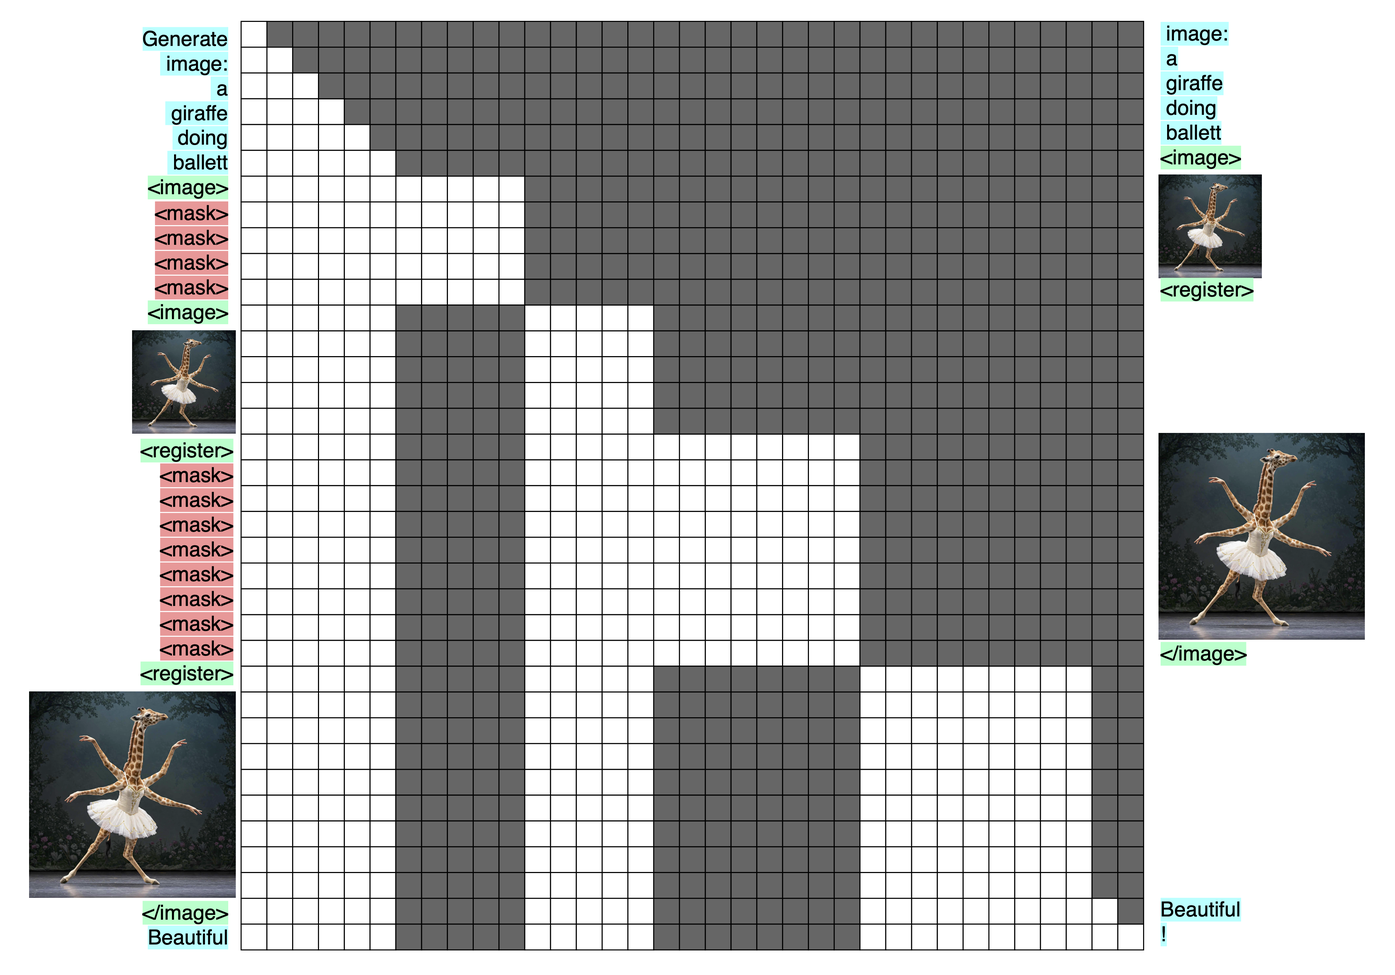
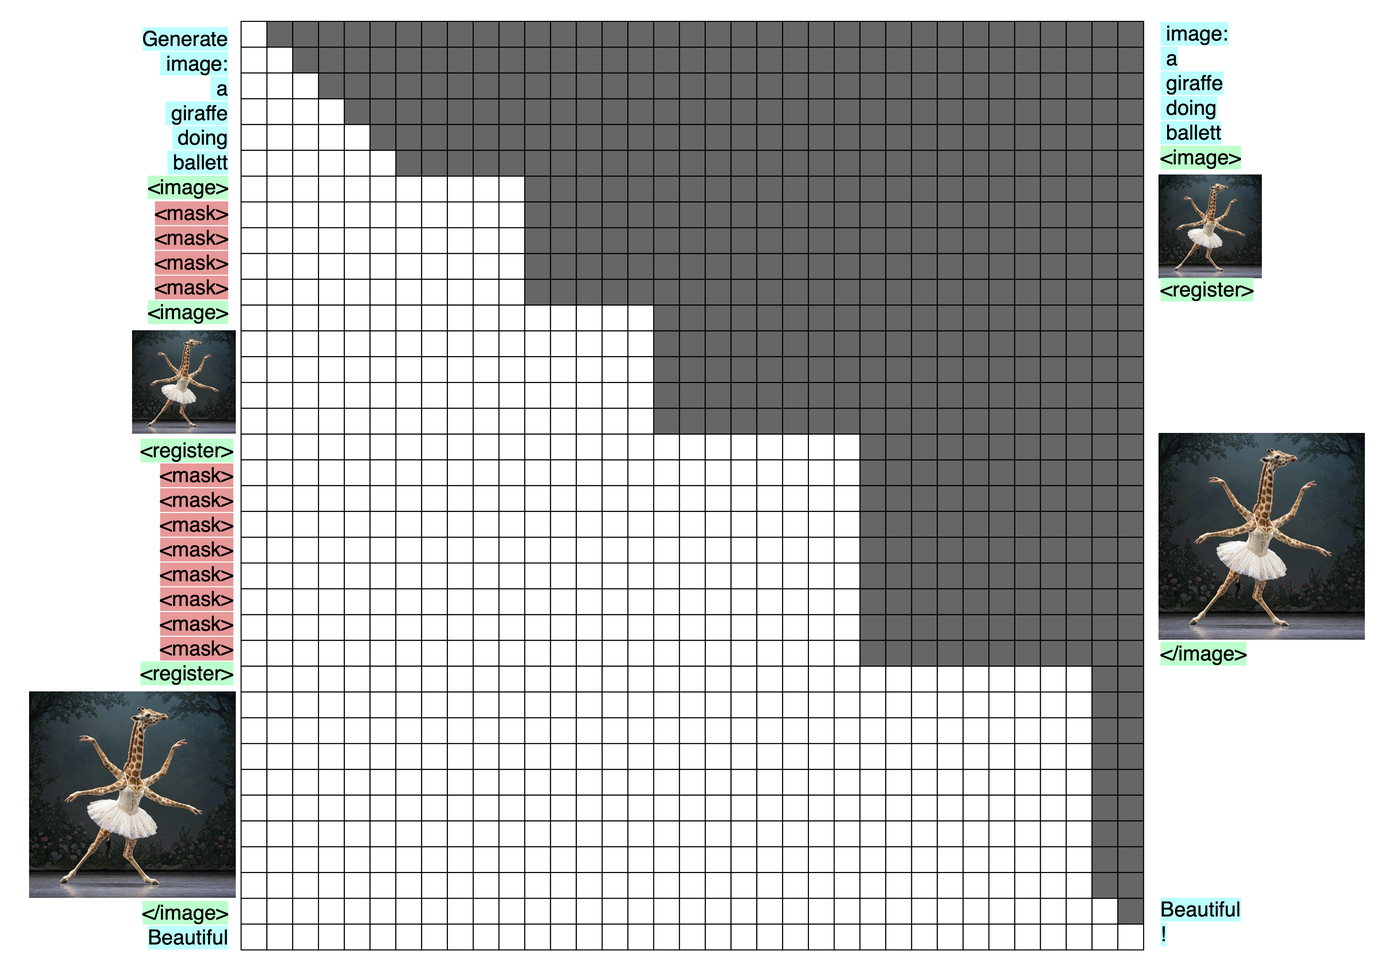
my-dream-vlm: new ideas and updates

Changed region(s): [[0.2802, 0.3093, 0.3736, 0.9897], [0.4669, 0.6804, 0.6226, 0.9897]]

diff --git a/_posts/2025-04-07-my-dream-vlm.md b/_posts/2025-04-07-my-dream-vlm.md
@@ -36,6 +36,8 @@ To summarize [my previous article](https://snimu.github.io/2025/03/30/multi-laye
 
 The obvious consequence of this is that modalities, which look very different when instantiated into text/images/..., will try to push the model towards producing a representation most fit for producing exactly that modality, as opposed to others. This leads to competition for resources inside the model. Putting a transformer block per modality between the model core and the decoders at the output will reduce that competition, and projecting into an abstract space at the input should have a similar effect.
 
+Since the article mentioned above, more evidence for my belief that modalities should be merged later and split earlier has emerged in the form of [Scaling Laws for Native Multimodal Models](http://arxiv.org/abs/2504.07951). The authors show that early fusion models work better than later fusion models, especially when using a Mixture of Experts (MoE) model. Importantly, they also show that the MoE model develops modality-specific experts, and does so *especially in the early and later layers*, not so much the middle layers, which I see as strong evidence for my claims. And while I'd of course also use a MoE model, I belief that merging late and splitting early gives even more separation, because the models each have their own Attention layer instead of just their own experts in the MLP.
+
 So the first modification that I would do to Janus is to merge inputs from different modalities later, and split their outputs earlier, like this:
 
 ![Janus Architecture with split and merge](/assets/images/2025-04-07-my-dream-vlm/abstract-space.png)
@@ -97,13 +99,13 @@ I see no reason not to actively train image-understanding by replacing some of t
 
 > Training bidirectional, masked image-understanding. On the left are the inputs, on the right the targets, and in the middle the transformer, represented by its attention mask. I show the images themselves being masked and produced at the output, but for image-understanding, what would be masked and produced would be adapted image tokens. After all, this is about image-*understanding*.
 
-I would train a small percentage of the samples without masking, so that the model gets used to seeing the full image and using it for downstream tasks, and train the rest with between 0% and 100% of masked patches. It will become clear why I want to use up to 100% of the image-tokens when I get to image-generation.
+I would train a small percentage of the samples without masking, so that the model gets used to seeing the full image and using it for downstream tasks, and train the rest with, for example, between 25% and 75% of masked patches.
 
-### Should we even use SigLIP for this?
+## Go early fusion
 
-This is a question that I'm uncertain about. The idea behind it is: if we already actively train image understanding, do we not limit ourselves by using a frozen encoder that was trained by projecting into text-space, instead of training end-to-end?
+Throw away the SigLIP encoder.
 
-Imagine the following architecture:
+Instead, use the following architecture:
 
 1. Image is split into patches
 2. Patches are flattened
@@ -114,12 +116,10 @@ If this is trained end-to-end, with text and other images in context, then:
 
 - There will inherently be a CLIP/SigLIP-like effect, because as long as the text is useful for predicting image-patches and images are useful for predicting text, their embeddings will be aligned automatically to be maximally useful to each other
 - In [Scaling Language-Free Visual Representation Learning](http://arxiv.org/abs/2504.01017), the authors show that scaling self-supervised learning (SSL) methods in large transformers works better than CLIP. So why not save the parameters and just train end-to-end?
-
-*Sidenote:* The authors of that paper use methods like DINOv2, not mask-denoising, but I expect that the latter would also work, and we will see why it is useful when we come to image-generation.
+- Most importantly, I will again point to [Scaling Laws for Native Multimodal Models](http://arxiv.org/abs/2504.07951). Early-fusion MoEs are significantly better than late-fusion models. Most importantly, it is best to use way more data and fewer parameters for the early-fusion than the late-fusion model, assuming the same training FLOP budget. That means that the early-fusion model of the same or higher quality can be run much more cheaply than the late-fusion model, because it has fewer parameters.
+  - *Sidenote:* The authors use a slightly different definition of early-fusion than me, but I'm still calling my models early-fusion because they are trained end-to-end, without any independently trained encoders.
 
 Some of you may fear representation collapse if we do this: the easiest way for the image-encoder to always be able to un-mask the image-tokens is to always produce 0 at its output. But as long as the images are useful for understanding the text coming after them, there is another loss signal working against representation collapse. This makes me believe that representation collapse is not a problem in such a VLM.
-
-I don't know for sure if this will work, but I suspect so. From hereon out, I will assume that this is the case, and refer to the image-inputs as image-tokens.
 
 ## Multi-resolution, multi-scale image-understanding
 
@@ -141,84 +141,118 @@ Anything where looking at the image at multiple resolutions is useful. For examp
 
 Seeing this image in its original resolution *and* a highly downsampled version will allow a model to see both aspects of it at once.
 
-## Multi-resolution, multi-masking-rate image-understanding + diffusion
+Another example for a task that would benefit from a multi-resolution/multi-scale approach is recognizing people/objects in noisy images, such as this one:
 
-Here's where it all comes together: multi-scale prediction is reminicent of the multi-scale aspects of a U-Net, and, more importantly, it is just [Visual Autoregressive Modeling: Scalable Image Generation via Next-Scale Prediction](https://arxiv.org/abs/2404.02905). Combined with masking and diffusion, it would allow for high-quality image generation.
+![Noisy image recognition](/assets/images/2025-04-07-my-dream-vlm/NoisyImageRecognition.jpg)
 
-I want the advantages of a bidirectional mask, but for image-generation. This doesn't allow for autoregressive generation, which loses us the aspect of gradual generation which is crucial. But if we re-use the multi-scale image-understanding-encoder, and run a diffusion model on top of its output hidden states, we gain that advantage back, and more on top.
+> From [this post](https://x.com/torchcompiled/status/1909878529321222619?s=46) by [@torchcompiled](https://x.com/torchcompiled).
 
-I will first describe how I imagine inference to work, then training, and finallys the advantages I hope to gain from this method of image-generation.
+It's pretty easy for humans to recognize this image, but difficult for current VLMs. The difference, I believe, is that humans use multi-resolution vision.
 
-### Inference
+These examples are somewhat toy-like, but they point to an important capability: reliability in image recognition, and an ability to handle complex, previously unseen contexts.
 
-For inference, I would follow these steps:
+## Add a diffusion model
 
-1. Apply mask tokens to the input, as many as there are patches in your lowest-resolution image. To be clear, these are the same mask tokens used for image understanding, and they are all applied at once, in parallel
-2. Separate the resulting hidden states from the abstract space with a transformer block and then use its output to guide a small diffusion model
-3. Take the resulting image and replace the masks at the input with it
-    - *Why not keep the mask tokens and simply append the generated image at the input?*
-    - Reason 1: Costs. Replacing the mask tokens saves a lot of kv-cache, especially when there are multiple images in context. And the image has to be put to the input anyway
-    - Reason 2: To stay closer to the image generation task. Unless we always prepend each scale of each image with a number of masks equal to the number of patches in the image (which would give us plenty of registers, see [Vision Transformers Need Registers](https://arxiv.org/abs/2309.16588) but would be complete overkill to the point of being ridiculous), replacing the mask tokens is needed to make the tasks similar, which is desireable for sharing capabilities between tasks
-4. Generate the next scale and repeat
+Now, all we have to do to to generate images too, is to add a diffusion model and separate it from the common backend with its own transformer block. We use the activations of the transformer to guide the diffusion model. For every single image that we see, consisting of between 25% and 75% mask-tokens, we apply both the image-understanding head and the image-generation head (a.k.a. a transformer block + diffusion model). This is illustrated below:
+
+![Multi-decode](/assets/images/2025-04-07-my-dream-vlm/imgen-multi-decode.png)
+
+> Decoding the common hidden states into image-tokens and an actual image via two independent heads, separated by their own transformer blocks.
+
+I will get to the details of training and inferencing this setup, but first, some general advantages that we can already determine:
+
+- We will see in a moment that we are doing [Visual Autoregressive Modeling: Scalable Image Generation via Next-Scale Prediction](https://arxiv.org/abs/2404.02905) (multi-scale generation), which seems to work very well. It allows the model to first generate rough outlines of an image at low resolution, then refine them step-by-step. We are predicting one scale, then the next, and so on. And since the model sees its own outputs through the image-encoder, this is meaningful multi-scale generation.
+- Because we are using multi-scale generation, a diffusion model, which is naively best at the very local and high-frequency components of an image, can still get the low-frequency, rough outlines right.
+- This method of generation allows us to use a bidirectional mask, which should be superior to a causal mask not just in understanding the image at the previous scale, but also at generating good representations at the current scale. It also means that we can generate the hidden states for the entire image at once (per resolution), instead of token-by-token, and then just use a cheap diffusion model for a few steps on top.
+- We get all the advantages of diffusion models:
+  - Image diversity / easy re-generation with a different noise seed from cached hidden states
+  - Great aesthetics
+  - Easy adaptability of those aesthetics via cheap LoRAs to the diffusion model alone
+  - Multi-step generation for a good efficiency-to-quality trade-off
+
+However, there are a few strange things about this.
+
+*Why do we do image-generation from only 25%-75% mask-tokens?*
+
+During inference, we won't, but I will get to that shortly.
+
+During training, it offers multiple advantages:
+
+- Because we use the image-encoder for both image-understanding and -generation, we don't need any text-labels to condition the diffusion model. After all, 25%-75% of the image are still visible, so the hidden states can act as meaningful conditioning. Of course, we *can* still use text-labels through interleaved text and image data, but we can also train on any image-data, without having to provide a good description of the image.
+- We enable inpainting. Just draw mask-tokens into your image, feed it through the image-encoder and common backbone, and apply the diffusion model.
+- We can always train both image-understanding and image-generation for every image, which does three things:
+  1. It gives a ton of training signal
+  2. It aligns the two, so that they can work well together
+  3. It avoids representation collapse even without surrounding text, because the diffusion model is trained against a fixed ground-truth instead of the model's own hidden states.
+- And just to repeat myself, the transformer blocks separating the two should mean that they don't compete for resources, instead training the common backend to produce highly meaningful representations.
+
+*What about inference?*
+
+We are currently training with 25-75% mask-tokens, but actual image-understanding should happen with 0% mask-tokens, and image-generation with 100% mask-tokens. How do we do that?
+
+The simple answer is: post-training.
+
+For image-generation, train a bit with 100% mask-tokens at the input. After every image-scale, swap the mask-tokens out for the actual image, then generate the next scale. By using 100% mask-tokens at the input, we don't need any pre-existing image. And since we can simply feed in all the mask tokens for a certain resolution in parallel, this is a two-step process per scale: 1) generate image from mask-tokens; 2) swap out mask tokens for actual image and generate. However, step 2 can be done at the same time as the next scale is being generated, which saves even more steps, so this is closer in costs to typical input-tokens than output-tokens.
+
+Here's what that would look like:
 
 ![Image generation](/assets/images/2025-04-07-my-dream-vlm/imgen-inference.png)
 
-> Multi-scale, masked image generation. To keep the image readable, it does *not* show the diffusion model after the transformer that generates the actual image, nor the transformer block that separates the common backend from the image-understanding- and text-decoders. You will notice that there are some additional tokens before, after, and between the different image-scales; these are needed to line up the inputs, outputs, and attention mask.
+> Multi-scale, masked image generation at inference time. To keep the image readable, it does *not* show the diffusion model after the transformer that generates the actual image, nor the transformer block that separates the common backend from the image-understanding- and text-decoders. You will notice that there are some additional tokens before, after, and between the different image-scales; these are needed to line up the inputs, outputs, and attention mask.
 
-### Training
+As for image-understanding, it's even simpler: post-train on a bunch of interleaved text and image data with 0% mask-tokens over the images, then use the model just like that during inference.
 
-The image-generation as shown in the [inference](#inference) part above has to be done autoregressively. An important question is whether it can be parallelized for pre-training.
+However, there is another way to achieve the same.
 
-At first glance, the answer is "yes", because we can simply make use of the attention mask, like this:
+## Add the un-masked image
+
+If we simply add the un-masked image after the masked image at every scale, but only decode with the image-understanding and -generation heads on the masked images, at every resolution, we get an even better model, and can get rid of the crutch of replacing mask-tokens with the actual image in image-generation.
+
+First off, here's what that would look like:
 
 ![Image generation: training](/assets/images/2025-04-07-my-dream-vlm/imgen-training.png)
 
-> Training a multi-scale, bidirectional-per-scale, masked-token image-generation model. The diffusion model is not shown here, but its training can of course be parallelized.
+> Training a multi-scale, bidirectional-per-scale, masked-token image-generation model with masked and un-masked images at every scale.
 
-My worry is that the distances between the un-masked images at different scales are higher than they will be during inference. This would cause a distribution shift between training and inference.
+There is a single disadvantage to this approach: cost. The number of tokens per image is doubled. Of course, as I've written above, these tokens should be treated more like input-tokens than output-tokens, even in image-generation, so while it has high memory- and compute-intensity, it can be parallelized a lot. For inputs containing many images, though, these extra tokens will be felt.
 
-However, I see three reasons not to worry:
+As for advantages:
 
-1. We are training image-understanding on the same encoder, where we don't use that masking scheme. So there, the distances will be like the are in image-generation-inference. Since we share most of the model between both tasks, some transfer should happen
-2. We can always post-train on the actual usage. I'm confident that what's learned in pre-training will transfer in post-training
-3. As mentioned above, if push comes to shove, we can simply keep the masks in context during inference, instead of replacing them with the generated image, though that comes with the drawbacks discussed before. On the other hand, it would allow us to do the following (not sure if it useful):
-    - In (for example) 10% of the images, we mask 0% of the input patches and use no decoder; this is to get the model used to using un-masked images in the context of surrounding text
-    - In (for example) 25% of the images, we apply 100% mask tokens, as shown above. We apply the image-generation decoder
-    - In the rest of cases, we randomly choose an x, with 0<x<100%, and mask x% of image tokens. We apply both decoders.
+- During inference, you can simply append the generated image to the mask-tokens, so the image-generation model inherently sees its own creation in its un-masked form after generation at every scale, which allows for three things:
+  1. The image can be used to guide the generation of the next higher resolution
+  2. The un-masked image is immediately visible to the model for downstream text or image tasks
+  3. The model can see the generated image in full resolution right after having generated it at every scale, and (given the right tools) decide that there is something wrong with the image. Then, we could simply re-generate the image by giving the diffusion model a different noise-input, guided by the same hidden states. To be clear, I don't mean generating *all* resolutions and *then* re-generating; I mean something like evalutating the difference between the activations for the mask-tokens and the actual image at those positions, and re-generating if the difference is too large. This would be cheap because only the diffusion model would have to be run again.
+- In fact, I want to stress this: for the purpose of downstream tasks, image-generation is now exactly equivalent to image-understanding.
+- As for image-understanding, we can now train that capability with a pretty heavily masked image, and still have the CLIP-like effect of having the full-resolution image in context for downstream text generation.
+- In both cases, this setup allows the model to first spell out what it thinks should be under the mask tokens (be there 25% or 100% mask tokens, or anything between), and then see what is actually under them.
+  - In the case of image understanding, this allows the model to use surprisal as a strategy for analyzing the image. And yes, I'd use that during inference: mask the image 25-75% (the exact number is an emprical question) at the position where it is masked during training, and leave it un-masked where it is un-masked during training.
+  - In the case of image generation, this of course does the same, but with the right training data, it might also allow for something else: the model correcting itself during generation (beyond just re-generating the diffusion output; no, I mean correcting the layout from the low-resolution image in the high-resolution image).
+- There is a small chance that the mask-tokens act a bit like registers, see [Vision Transformers Need Registers](https://arxiv.org/abs/2309.16588).
 
-Of course, if it is easy to modify RoPE positions dynamically, we could very easily go around the problem, but I don't understand RoPE well enough to be able to tell (and my expectation is that it's not possible).
+I believe that this method would yield a VLM that is very strong at both image-understanding and image-generation, and would still work well with text. In fact, with the right training data, I think that the modalities will improve each other.
 
-#### The diffusion model
+## Some notes on architecture
 
-Just to include this into the article explicitly, here is a sketch of how the diffusion model can be steered by the image-understanding-encoder, and trained in a parallelized fashion:
+Any of the choices I've presented above might be sub-optimal, so here, I will talk about a few modifications that could be made to the model in different situations, and leave more ideas to you.
 
-![Diffusion](/assets/images/2025-04-07-my-dream-vlm/diffusion.png)
+*Applying the separate transformer blocks.*
 
-> Sketch of a diffusion process guided by the output hidden states of the VLM.
+It is not obvious how best to apply the separate transformer blocks for images and text, when dealing with interleaved image and text data. How do you deal with two text-segments that are isolated by images between them?
 
-We use the same hidden states for guidance at every step of a given image resolution, and use teacher forcing during training so that all calls can be done in parallel. During inference, we simply run the few diffusion steps (three are shown in the image) one after the other. Since the diffusion model can likely be fairly small (much smaller than the VLM at least), this is comparatively cheap and efficient.
+Here is one proposal, though I truly don't claim that it's the best one:
 
-### Advantages
+- For images, apply the image-blocks (one at the input, two at the output: one for understanding, one for generation) to each image independently, with a bidirectional mask.
+- For text, just run it over the interleaved image-patches and text-embeddings, and mask out the image-patches in the attention mask and loss-calculation. Use sliding window attention.
 
-With this method, I'm after the following advantages:
+In either case, I would of course use an MoE, as mentioned before.
 
-- Multi-scale prediction seems to work very well. It allows the model to first generate rough outlines of an image at low resolution, then refine them step-by-step. GPT-4o probably uses it
-- We use the image-understanding-encoder to encode the images at the previous scale, so the model automatically sees the images that it has just created through the eyes of image-understanding
-  - That's great for creating the next image
-  - It's great for creating the next scale of the same image
-  - And it's great for other downstream tasks like thinking about the image
-- Because it uses the image-understanding-encoder, the model can make use of the high-quality representation in the hidden states. We use the same mask-tokens for image-generation as for image-understanding, just more of them. This means that everytime we train the model on image-understanding, we also train it to handle mask tokens
-- This method of generation allows us to use a bidirectional mask, which should be superior to a causal mask not just in understanding the image at the previous scale, but also at generating good representations at the current scale. It also means that we can generate the hidden states for the entire image at once (for a single scale), instead of token-by-token, and then just use a cheap diffusion model for a few steps on top
-- Diffusion works really well for image-generation, especially when it comes to aesthetics.
-  - We are using high-quality, semantically rich hidden states from the actively trained image-understanding-encoder to guide the diffusion model, which should lead to excellent prompt adherence&mdash;often a limiting factor for pure diffusion models
-    - This is especially relevant when the first scale of images is already generated; the second scale will be guided very precisely to fit the previous
-    - However, since we are training image-understanding with a varying ratio of mask-tokens to image-tokens, it will be able to guess sensible hidden states even for the first scale of images
-  - We are using multi-scale generation, so a diffusion model, which is naively best at the very local, high-frequency components of an image, can still get the low-frequency, rough outlines right
-  - We get all the advantages of diffusion models:
-    - Image diversity / easy re-generation with a different noise seed from cached hidden states
-    - Great aesthetics
-    - Easy adaptability of those aesthetics via cheap LoRAs to the diffusion model alone
-    - Multi-step generation for a good efficiency-to-quality trade-off
+*What if I want to use really long sequences?*
+
+I see no problem with using N state-space-model (SSM) or test-time-training (TTT) layers for every attention layer in the model. Those are inherently causal (I think), but the bidirectional aspect of the images described above can be kept in the attention layer. And if we want even longer sequences, the attention layer can have a really large sliding window mask (256k tokens or however many we can get away with), with cutouts for the images' bidirectionality.
+
+*Other modifications.*
+
+The point of this section is mostly to say: go wild! The ideas presented in this article are mostly about data-augmentation and training objectives, so the architecture behind this is pretty much up to you, within reason.
 
 ## Conclusion
 
@@ -231,7 +265,7 @@ While I have no guarantees about any of these modifications, I would love to see
 
 ![Full pipeline](/assets/images/2025-04-07-my-dream-vlm/full-pipeline.png)
 
-> Proposed modifications to the Janus architecture, rough sketch.
+> Proposed modifications to the Janus architecture, rough sketch, inference only.
 
 ## Citation
 
